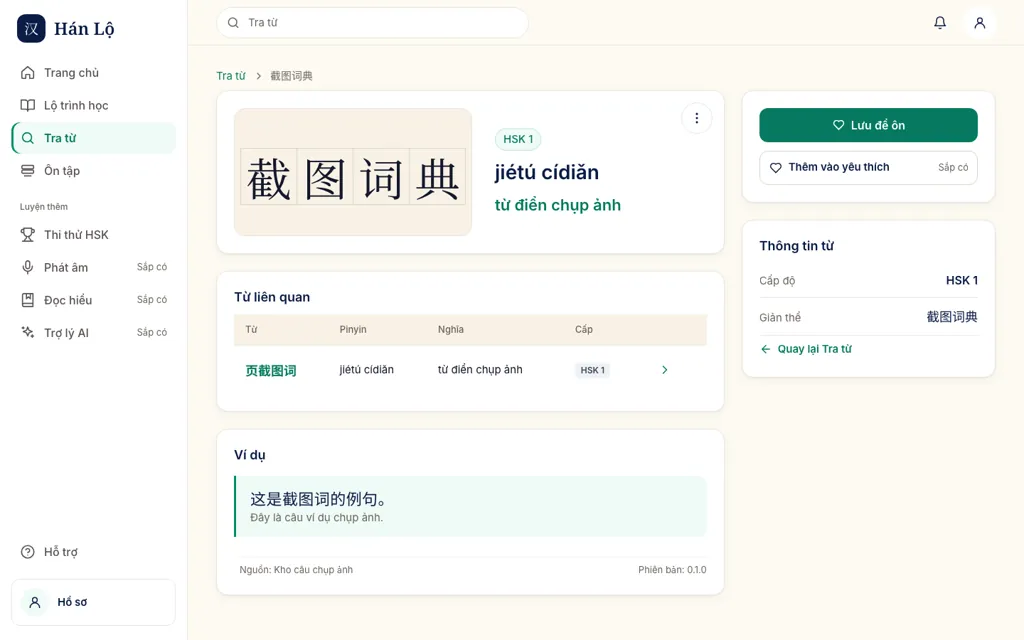
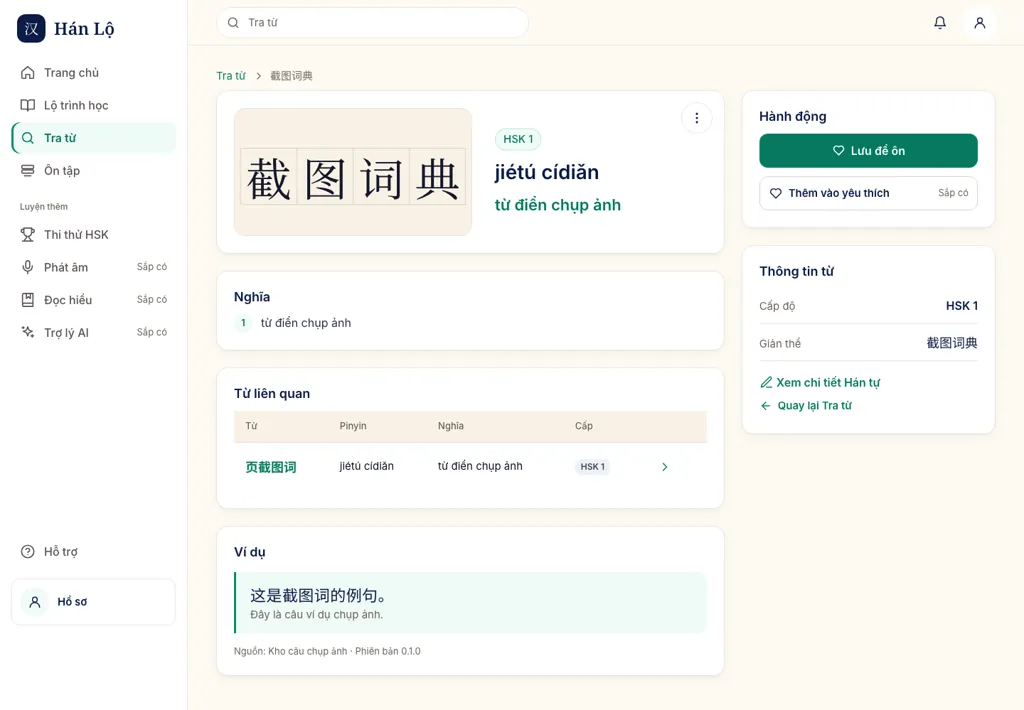
fix(ui): size the web word hero glyph box to its 田字格 row after the M3.4d merge
M3.4d made .word__head a size container (Q333), which pinned the web glyph
column to its minimum and let a four-cell row run over the pinyin at
1024/1440. The web glyph box opts out (container-type: normal); mobile keeps
Q333. Refresh the dictionary and review WebP pairs.

diff --git a/frontend/src/app/(learner)/learner-web.css b/frontend/src/app/(learner)/learner-web.css
@@ -2383,6 +2383,9 @@
 
   /* The glyph box (mẫu .wword-hero__glyph). */
   .learner-app .word-web__hero .word__head {
+    /* The glyph column sizes to its row of 田字格 cells; the mobile Q333
+       size container would pin this box to the column minimum. */
+    container-type: normal;
     display: grid;
     place-items: center;
     aspect-ratio: 1;
